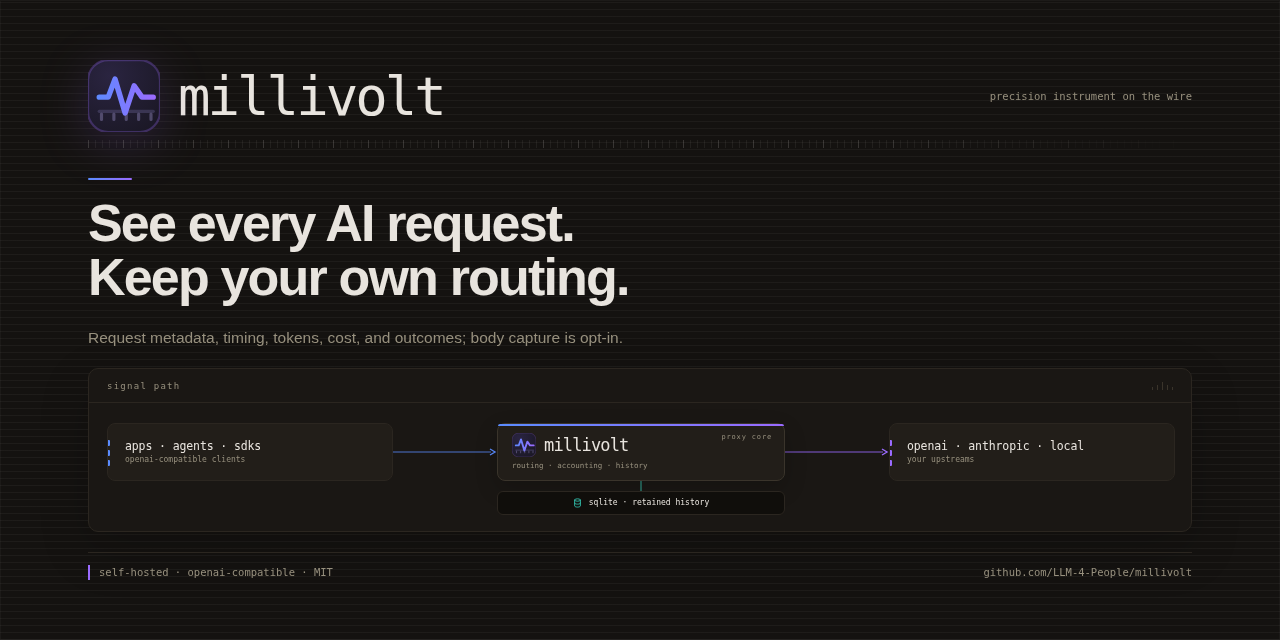
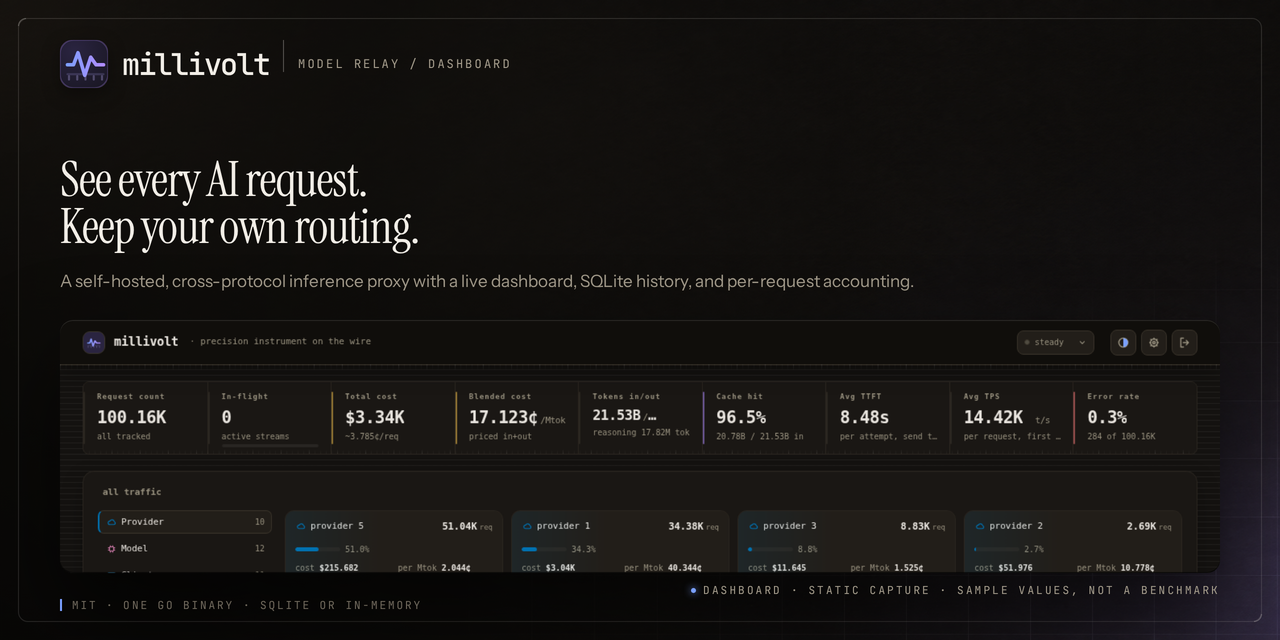
brand: show the product in the promotional plates
The covers, link preview and repository social card now carry the real
dashboard capture in a framed pane over a generated warm-charcoal or paper
field, with the Instrument Serif headline and the same mono labels the product
uses. The diagrams they replace showed a routing schematic that no longer
matched the type system or the documentation's focus on the live dashboard.

Copy is narrowed to what the product supports: three client protocols, and
accounting for every request rather than recording all of them, since the
durable queue is bounded. The visible caption, README note, alt text and
og:image:alt / twitter:image:alt metadata all say the pane is a static capture
with sample values, not a benchmark. A build guard requires that disclosure so
a future alt edit cannot quietly drop it.

diff --git a/site-src/templates/base.html b/site-src/templates/base.html
@@ -21,6 +21,7 @@
 <meta name="twitter:title" content="{{title}}">
 <meta name="twitter:description" content="{{description}}">
 <meta name="twitter:image" content="{{og_image}}">
+<meta name="twitter:image:alt" content="{{og_image_alt}}">
 <link rel="icon" href="{{root}}assets/mark.svg" type="image/svg+xml">
 <link rel="icon" href="{{root}}assets/favicon.ico" sizes="any">
 <link rel="apple-touch-icon" href="{{root}}assets/apple-touch-icon.png">

diff --git a/scripts/build_site.py b/scripts/build_site.py
@@ -754,7 +754,7 @@ def base_values(
         "canonical_tag": canonical_tag,
         "og_url": attr_escape(og_url),
         "og_image": attr_escape(og_image),
-        "og_image_alt": attr_escape("millivolt: See every AI request. Keep your own routing. The dashboard band shows request count, total cost, cache hit rate, and provider totals from a redacted fixture capture."),
+        "og_image_alt": attr_escape("millivolt: See every AI request. Keep your own routing. A static dashboard band shows request count, total cost, cache hit rate and provider totals from redacted history; sample values, not a benchmark."),
         "site_name": "millivolt",
         "root": root,
         "body": body,
@@ -1143,8 +1143,13 @@ def readme_image_errors() -> list[str]:
     readme = (ROOT / "README.md").read_text(encoding="utf-8")
     errors = []
     images = re.findall(r"<img\b[^>]*>", readme)
-    if not any("readme-cover-dark.png" in tag for tag in images):
+    covers = [tag for tag in images if "readme-cover-dark.png" in tag]
+    if not covers:
         errors.append("README is missing the cover fallback image")
+    elif not any("sample values, not a benchmark" in tag for tag in covers):
+        errors.append("README cover alt must say the dashboard values are a sample, not a benchmark")
+    if "not a benchmark or a capacity measurement" not in " ".join(readme.split()):
+        errors.append("README must label the cover dashboard values as a sample")
     for tag in images:
         if not re.search(r"\bheight=", tag):
             continue

diff --git a/tests/python/site.py b/tests/python/site.py
@@ -620,6 +620,11 @@ def check_site(site: Path, *, base_url: str = DEFAULT_BASE_URL) -> list[str]:
             value = parsed[page].meta.get(key, "")
             if value and not value.startswith(base_url):
                 errors.append(f"{rel}: {key} {value!r} is not on the published base {base_url}")
+        if page == site / "index.html":
+            for key in ("og:image:alt", "twitter:image:alt"):
+                value = parsed[page].meta.get(key, "")
+                if "not a benchmark" not in value:
+                    errors.append(f"index.html: {key} must label the dashboard values as a sample")
         canonical = re.search(r'<link rel="canonical" href="([^"]+)"',
                               page_texts[page])
         if canonical and not html_unescape(canonical.group(1)).startswith(base_url):

diff --git a/README.md b/README.md
@@ -3,8 +3,12 @@
 <picture>
   <source media="(prefers-color-scheme: dark)" srcset="docs/images/brand/readme-cover-dark.png">
   <source media="(prefers-color-scheme: light)" srcset="docs/images/brand/readme-cover-light.png">
-  <img src="docs/images/brand/readme-cover-dark.png" alt="millivolt cover: the headline See every AI request. Keep your own routing. beside a dashboard capture showing request count, total cost, cache hit rate, and provider totals" width="1600">
+  <img src="docs/images/brand/readme-cover-dark.png" alt="millivolt cover: the headline See every AI request. Keep your own routing. beside a static dashboard capture from redacted history showing request count, total cost, cache hit rate, and provider totals; sample values, not a benchmark" width="1600">
 </picture>
+
+<sub>Dashboard values are a sample from one redacted self-hosted history, not
+a benchmark or a capacity measurement. Published measurements live in
+[performance](docs/performance.md).</sub>
 
 <picture>
   <source media="(min-width: 761px)" srcset="docs/images/brand/readme-spec.svg">
